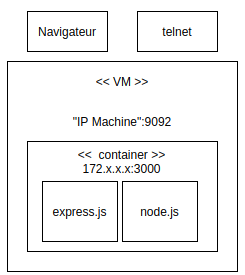
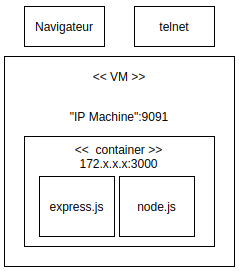
Etape 3 terminée

diff --git a/README.md b/README.md
@@ -52,27 +52,20 @@ Ce fichier permet de construire l'image Docker qui a été configurée dans le f
 
 Le paramètre `-t` permet de spécifier un nom à l'image, ici `res-http/apache-php`.
 
-#### Fichiers `run-container-01.sh` et `run-container-02.sh`
+#### Fichiers `run-container.sh
 
-Contenu `run-container-01.sh` :
+Contenu:
 
 ```bash
 #!/bin/bash
 docker run -d -p 9090:80 res-http/apache-php
 ```
 
-Contenu `run-container-02.sh` :
-
-```bash
-#!/bin/bash
-docker run -d -p 9091:80 res-http/apache-php
-```
-
-Ces deux fichiers permettent de créer un container sur l'image construite avec le script `build-images.sh`. Il y en a deux, avec une seule différence qui est le port de la machine locale utilisé, afin de pouvoir créer deux containers.
+Ce fichier permet de créer un container sur l'image construite avec le script `build-images.sh`. 
 
 Le paramètre `-d` permet de lancer le container en arrière-plan.
 
-Le paramètre `-p` permet de faire du "port mapping" en spécifiant le port de la machine locale à utiliser (ici `9090` ou `9091`) et le port du service exécuté dans le container (ici `80`).
+Le paramètre `-p` permet de faire du "port mapping" en spécifiant le port de la machine locale à utiliser (ici `9090`) et le port du service exécuté dans le container (ici `80`).
 
 Nous voyons également que l'on reprend le nom de l'image construite (`res-http/apache-php`).
 
@@ -89,10 +82,9 @@ Nous voyons également que l'on reprend le nom de l'image construite (`res-http/
    ```bash
    cd RES_2021_Labo4_HttpInfra/docker-images/apache-php-image
    ./build-images.sh
-   ./run-container-01.sh
-   ./run-container-02.sh
+   ./run-container.sh
    ```
-   Cela va construire l'image et créer les deux containers, pour donner une structure semblable à celle-ci:
+   Cela va construire l'image et le container, pour donner une structure semblable à celle-ci:
    
    <img src="figures/Structure-Etape1.png" style="text-align:center;" />
    
@@ -102,7 +94,7 @@ Nous voyons également que l'on reprend le nom de l'image construite (`res-http/
    ip addr
    ```
 
-4. Pour se connecter, il faut aller sur un navigateur et taper l'adresse IP récupérée suivie de `:9090` pour le premier container, ou de `:9091` pour le deuxième container dans la barre d'adresse. Par exemple: 192.168.1.116:9090
+4. Pour se connecter, il faut aller sur un navigateur et taper l'adresse IP récupérée suivie de `:9090` dans la barre d'adresse. Par exemple: 192.168.1.116:9090
 
    On peut maintenant apercevoir le site Web:
 
@@ -110,7 +102,7 @@ Nous voyons également que l'on reprend le nom de l'image construite (`res-http/
 
    On peut également aller plus loin en explorant quelque peu la configuration du serveur apache avec les étapes suivantes:
 
-5. Récupérer le nom de l'un des containers créé en tapant la commande:
+5. Récupérer le nom du container créé en tapant la commande:
 
    ```bash
    docker ps
@@ -119,18 +111,17 @@ Nous voyons également que l'on reprend le nom de l'image construite (`res-http/
    On obtient le résultat suivant:
 
    CONTAINER ID   IMAGE                 COMMAND                  CREATED          STATUS          PORTS                                   NAMES
-   ebc2bc6e41fc   res-http/apache-php  "docker-php-entrypoi…"   15 minutes ago   Up 15 minutes   0.0.0.0:9091->80/tcp, :::9091->80/tcp   `epic_rosalind`
    d57f4407ee3c   res-http/apache-php  "docker-php-entrypoi…"   15 minutes ago   Up 15 minutes   0.0.0.0:9090->80/tcp, :::9090->80/tcp   `unruffled_turing`
-
-   Les noms seront différents puisqu'ils sont générés aléatoirement.
-
+   
+   Le nom sera différent puisqu'il est généré aléatoirement.
+   
 6. Le nom récupéré va nous servir à se connecter directement sur le container avec la commande suivante:
 
    ```bash
-   docker exec -it epic_rosalind /bin/bash
+   docker exec -it unruffled_turing /bin/bash
    ```
 
-   Le nom du container `epic_rosalind` à remplacer par celui trouvé par la commande précédente.
+   Le nom du container `unruffled_turing` à remplacer par celui trouvé par la commande précédente.
 
    Nous sommes maintenant connecté directement sur la machine et pouvons exécuter les commandes souhaitées.
 
@@ -198,12 +189,12 @@ Contenu:
 
 ```bash
 #!/bin/bash
-docker run -p 9092:3000 res-express
+docker run -p 9091:3000 res-express
 ```
 
 Ce fichier permet de créer un container sur l'image construite avec le script `build-images.sh`.
 
-Le paramètre `-p` permet de faire du "port mapping" en spécifiant le port de la machine locale à utiliser (ici `9092`) et le port du service exécuté dans le container (ici `3000`).
+Le paramètre `-p` permet de faire du "port mapping" en spécifiant le port de la machine locale à utiliser (ici `9091`) et le port du service exécuté dans le container (ici `3000`).
 
 Nous voyons également que l'on reprend le nom de l'image construite (`res-express`).
 
@@ -235,7 +226,7 @@ Notre application génère un certain nombre de lancé de dés (entre 0 et 10), 
    ip addr
    ```
 
-4. Pour se connecter, il faut aller sur un navigateur et taper l'adresse IP récupérée suivie de `:9092` dans la barre d'adresse. Par exemple: 192.168.1.116:9092
+4. Pour se connecter, il faut aller sur un navigateur et taper l'adresse IP récupérée suivie de `:9091` dans la barre d'adresse. Par exemple: 192.168.1.116:9091
 
    On peut maintenant apercevoir le résultat, où `launchNumber` est le numéro du lancé, et `result` est le résultat du lancé:
 
@@ -245,15 +236,148 @@ Notre application génère un certain nombre de lancé de dés (entre 0 et 10), 
 
 ### Objectifs
 
-
+- Utiliser apache httpd pour créer un reverse proxy
+- S'assurer que toutes les requêtes HTTP passent par le reverse proxy
+- Router les requêtes sur les applications apache http ou node.js en fonction du prefixe de l'URL
 
 ### Infrastructure
 
+Pour cette troisième étape, l'infrastructure de l'image Docker se trouve dans le répertoire `./docker-images/apache-reverse-proxy-image`.
 
+#### Dossier `conf`
+
+Le dossier `conf` contient la configuration nécessaire pour le reverse proxy, notamment le fichier `001-reverse-proxy.conf`:
+
+```bash
+<VirtualHost *:80>
+    ServerName dices.res.ch
+    
+    ProxyPass "/api/dices/" "http://172.17.0.3:3000/"
+    ProxyPassReverse "/api/dices/" "http://172.17.0.3:3000/"
+
+    ProxyPass "/" "http://172.17.0.2:80/"
+    ProxyPassReverse "/" "http://172.17.0.2:80/"
+</VirtualHost>
+```
+
+Cela va permettre de faire les redirections vers les 2 containers contenant le site web statique et le site web dynamique, avec comme hôte de destination `dices.res.ch`.
+
+#### Fichier `Dockerfile`
+
+Contenu:
+
+```dockerfile
+FROM php:7.2-apache
+COPY conf/ /etc/apache2
+
+RUN a2enmod proxy proxy_http
+RUN a2ensite 000-* 001-*
+```
+
+Ce fichier permet de configurer l'image Docker du serveur apache reverse proxy.
+
+Le `FROM` permet de définir l'image de base, ici nous héritons de l'image `7.2-apache` de `php`.
+
+Le `COPY` va aller copier le contenu du dossier `conf` vers le répertoire `/etc/apache2`.
+
+Les commandes `RUN` permettent d'appliquer la configuration.
+
+#### Fichier `build-images.sh`
+
+Contenu:
+
+```bash
+#!/bin/bash
+cd ../apache-php-image
+./build-images.sh
+cd ../express-image
+./build-images.sh
+cd ../apache-reverse-proxy-image
+docker build -t res-apache-rp .
+```
+
+Ce fichier permet de construire les 3 images Docker nécessaires afin de s'assurer qu'elles soient bien toutes créées.
+
+Le paramètre `-t` permet de spécifier un nom à l'image, ici `res-apache-rp`.
+
+#### Fichier `run-container.sh`
+
+Contenu:
+
+```bash
+#!/bin/bash
+docker run -d --name apache-static res-http/apache-php
+docker run -d --name express-dynamic res-express
+docker run -d -p 9093:80 res-apache-rp
+```
+
+Ce fichier permet de créer les 3 containers sur les images construites avec le script `build-images.sh`.
+
+Le paramètre `-p` permet de faire du "port mapping" en spécifiant le port de la machine locale à utiliser (ici `9093`) et le port du service exécuté dans le container (ici `80`).
+
+Nous voyons également que l'on reprend le nom de l'image construite (`res-apache-rp`).
 
 ### Démonstration
 
+1. Cloner le projet dans un répertoire si cela n'a pas déjà été fait avec les étapes précédentes
 
+   ```bash
+   git clone git@github.com:Nono98/RES_2021_Labo4_HttpInfra.git
+   ```
+
+2. S'assurer qu'il n'y ait aucun container lancé concernant les étapes 1 et 2 en exécutant la commande:
+
+   ```bash
+   docker ps
+   ```
+
+   Si il y en a, alors il faut le(s) supprimer avec la commande:
+
+   ```bash
+   docker kill "nom du container"
+   ```
+
+   Où le nom du container est celui trouvé avec la commande `docker ps`. (Voir démonstration étape 1, point 5)
+
+3. Exécuter le script de construction d'image pour les 3 containers et lancer les différents containers nécessaires:
+
+   ```bash
+   cd RES_2021_Labo4_HttpInfra/docker-images/apache-reverse-proxy-image
+   ./build-images.sh
+   ./run-containers.sh
+   ```
+
+   Il faudra bien vérifier que les adresses IP des containers soient `172.17.0.2` et `172.17.0.3`.
+
+   Cela va construire les images et créer les container, pour donner une structure semblable à celle-ci:
+
+   <img src="figures/Structure-Etape3.png" style="text-align:center;" />
+
+4. Ajouter une entrée dans le fichier `hosts` du système (`/etc/hosts` sur Linux)
+
+   ```bash
+   192.168.1.116   dices.res.ch
+   ```
+
+   Où `192.168.1.116` est l'adresse IP de la machine locale, voir étape 1 point 3 pour la récupérer.
+
+5. Accéder aux sites via le navigateur
+
+   1. Site statique, accès au site créé dans l'étape 1
+
+      ![](figures/Etape3-Statique.png)
+
+   2. Site dynamique, le lien fonctionne et retourne ce que l'on veut
+
+      <img src="figures/Etape3-Dynamique.png"  />
+
+   3. Erreur dans l'URL, le fichier recherché n'est pas trouvable
+
+      ![](figures/Etape3-Erreur.png)
+
+   4. Impossible de se connecter directement aux containers, il faut passer par le reverse proxy
+
+      <img src="figures/Etape3-ImpossibleContainersDirect.png" style="zoom:75%;" />
 
 ## Etape 4: Requêtes AJAX avec JQuery
 
